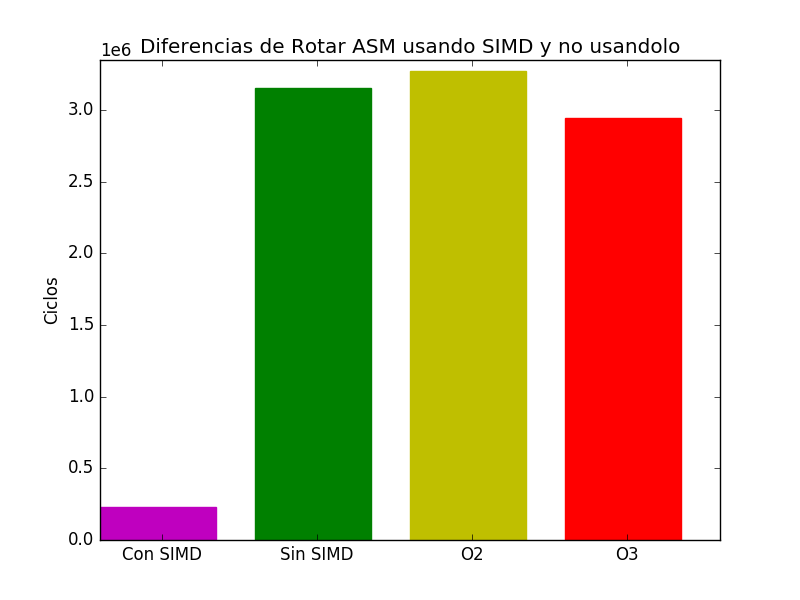
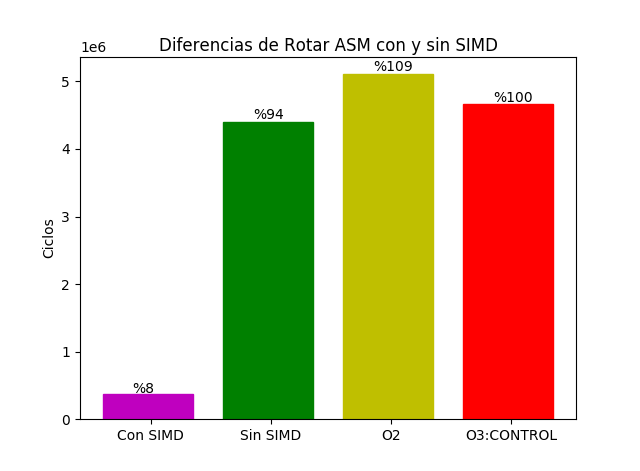
exp

diff --git a/Experimentos/ROTAR/SIMD.py b/Experimentos/ROTAR/SIMD.py
@@ -49,31 +49,41 @@ import matplotlib.pyplot as plt
 import numpy as np
 
 
-
-rotar = 100000000000000
+ind = 0
+rotar = 0
 for i in range(128):
   for t in ts[i]:
-    rotar = min(rotar, t)
+    rotar = rotar + t
+    ind = ind + 1
 
+rotar = rotar/ind
 
-
-
-simd = 10000000000000
+ind = 0
+simd = 0
 for i in range(128):
   for t in ts2[i]:
-    simd = min(simd,t)
+    simd = simd + t
+    ind = ind + 1
+    
+simd = simd/ind
 
-   
-o2 = 100000000000000000
+ind = 0
+o2 = 0
 for i in range(128):
   for t in ts3[i]:
-    o2 = min(o2,t)
+	ind = ind +1
+	o2 = o2 + t
+o2 = o2/ind
 
-o3 = 100000000000000000
+
+    
+ind = 0
+o3 = 0
 for i in range(128):
   for t in ts4[i]:
-    o3 = min(o3,t)  
-
+    o3 = o3 + t 
+    ind = ind + 1
+o3 = o3/ind
 
 y = []
 y.append(rotar)
@@ -88,15 +98,19 @@ fig, ax = plt.subplots()
 rects1 = ax.bar(ind, y, width)
 
 ax.set_ylabel('Ciclos')
-ax.set_title('Diferencias de Rotar ASM usando SIMD y no usandolo')
+ax.set_title('Diferencias de Rotar ASM con y sin SIMD')
 ax.set_xticks(ind + 0.4)
-ax.set_xticklabels(('Con SIMD', 'Sin SIMD', 'O2', 'O3'))
+ax.set_xticklabels(('Con SIMD', 'Sin SIMD', 'O2', 'O3:CONTROL'))
 plt.ticklabel_format(style='sci', axis='y', scilimits=(0,0))
 rects1[0].set_color('m')
 rects1[1].set_color('g')
 rects1[2].set_color('y')
 rects1[3].set_color('r')
-plt.ylim(0,3350000)
-
+#plt.ylim(0,4550000)
+plt.text(3.25, 4700000, r'%100')
+plt.text(1.25, 4450000, r'%94')
+plt.text(2.25, 5150000, r'%109')
+plt.text(0.25, 385000, r'%8')
+#plt.grid(True)
 plt.show()
 
